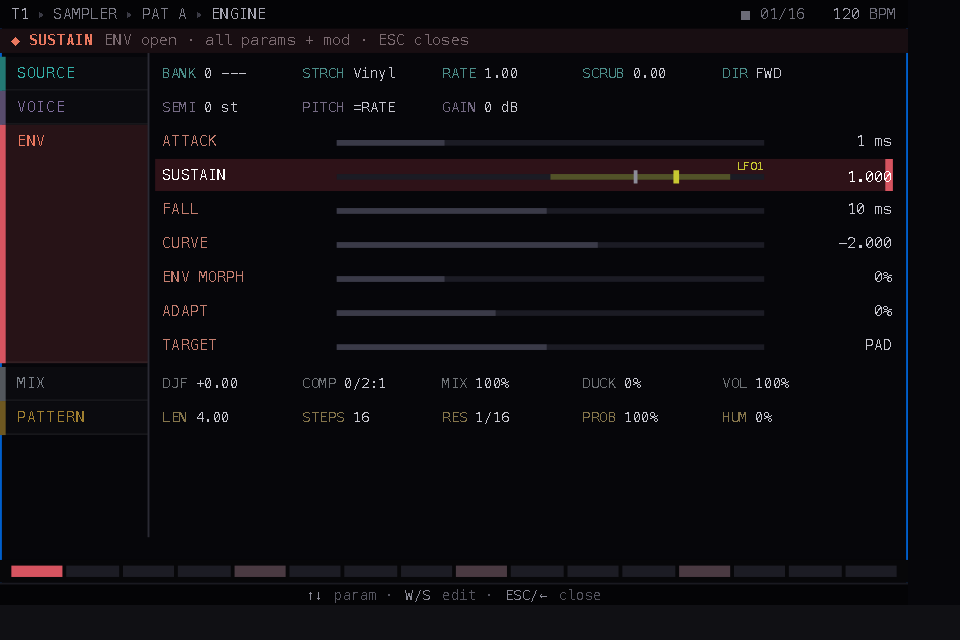
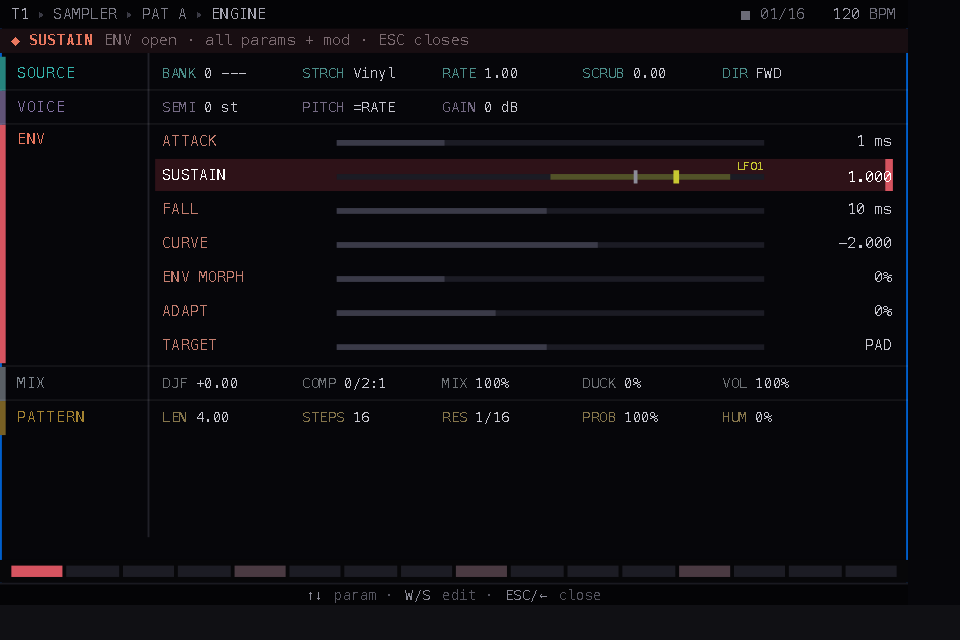
tweak(7): full-width row lines across both panes + category on the param baseline (unify the table)

Changed region(s): [[0.0, 0.1875, 0.1562, 0.5938]]

diff --git a/index.html b/index.html
@@ -609,13 +609,14 @@ function renderInlineViz(){
   const sc=secs();let html=crumb();
   const bodyTop=28, bodyBot=284, catW=78, px=catW+8;
   const cols=[catW+8, catW+82, catW+156, catW+230, catW+304];
-  // a tidy table column: per-section CELL (subtle fill + hairline + role tick + TOP-aligned
-  // name, no floating chip). Focused cell gets a clean role tint + bright name/tick.
-  const catCell=(y,h,c,foc,name)=>
-    `<div style="position:absolute;left:0;top:${y}px;width:${catW}px;height:${h}px;background:${foc?'rgba(214,84,96,.16)':'rgba(255,255,255,.022)'};border-bottom:1px solid rgba(255,255,255,.05)"></div>`
-   +`<div style="position:absolute;left:0;top:${y}px;width:3px;height:${h}px;background:${foc?'var(--rail)':'color-mix(in srgb,'+c+' 55%,#000)'}"></div>`
-   +`<div style="position:absolute;left:9px;top:${y+5}px;font-size:8px;letter-spacing:.4px;color:${foc?c:'color-mix(in srgb,'+c+' 80%,#000)'}">${name}</div>`;
-  const catDiv=(y,h)=>`<div style="position:absolute;left:${catW}px;top:${y}px;width:1px;height:${h}px;background:#2a2a34"></div>`;
+  // One table. The category name is the LEFT cell of each row (role tick + name on the SAME
+  // baseline as its params). No separate column background, so it doesn't read as a detached
+  // sidebar — rows are tied together by full-width horizontal lines crossing the divider (Tim).
+  const catDiv=(y,h)=>`<div style="position:absolute;left:${catW}px;top:${y}px;width:1px;height:${h}px;background:#202028"></div>`;
+  const hLine=(y)=>`<div style="position:absolute;left:0;right:0;top:${y}px;height:1px;background:rgba(255,255,255,.06)"></div>`;
+  const catLbl=(ty,rowY,rowH,c,foc,name)=>
+    `<div style="position:absolute;left:0;top:${rowY}px;width:3px;height:${rowH}px;background:${foc?'var(--rail)':'color-mix(in srgb,'+c+' 60%,#000)'}"></div>`
+   +`<div style="position:absolute;left:9px;top:${ty}px;font-size:8px;letter-spacing:.4px;color:${foc?c:'color-mix(in srgb,'+c+' 82%,#000)'}">${name}</div>`;
 
   if(S.exp>=0){
     // ---- accordion FOLDOUT: focused section -> full param bars + live mod; others thin ----
@@ -625,14 +626,15 @@ function renderInlineViz(){
     let y=bodyTop+2;
     sc.forEach((sec,si)=>{
       const c=rc(sec.id);
+      if(si>0)html+=hLine(y-1);
       if(si===S.exp){
         const bh2=Math.max(13,Math.min(18,(bodyBot-y-(sc.length-1-si)*18-2)/sec.full.length));
         const blockH=sec.full.length*bh2;
-        html+=catCell(y,blockH,c,true,sec.id);
+        html+=catLbl(y+4,y,blockH,c,true,sec.id);
         html+=foldoutBars(sec,c,px,y,480-px-8,blockH,S.field);
         y+=blockH+2;
       } else {
-        html+=catCell(y,18,c,false,sec.id);
+        html+=catLbl(y+5,y,18,c,false,sec.id);
         (sec.inline||sec.full).slice(0,5).forEach((f,fi)=>{
           html+=`<div style="position:absolute;left:${cols[fi]}px;top:${y+5}px;font-size:7.5px;display:flex;gap:4px;white-space:nowrap"><span style="color:color-mix(in srgb,${c} 42%,#555)">${f[0]}</span><span style="color:var(--ink)">${f[1]}</span></div>`;});
         y+=18;
@@ -642,24 +644,26 @@ function renderInlineViz(){
     dev.innerHTML=html;return;
   }
 
-  // ---- collapsed: compact aligned rows (category column | params) + env anchor below ----
+  // ---- collapsed: compact aligned rows (category cell | params) + env anchor below ----
   const fsec=sc[S.sec];const fl0=(fsec.inline||fsec.full);
-  html+=`<div class="subhdr"><span class="nm" style="color:${rc(fsec.id)}">◆ ${fl0[Math.min(S.field,fl0.length-1)][0]}</span><span class="ds">${fsec.id} · category column + params</span></div>`;
+  html+=`<div class="subhdr"><span class="nm" style="color:${rc(fsec.id)}">◆ ${fl0[Math.min(S.field,fl0.length-1)][0]}</span><span class="ds">${fsec.id} · category + params</span></div>`;
   const n=sc.length, rowH=22, rowsTop=bodyTop+2, rowsBot=rowsTop+n*rowH;
+  // focus band first (full width, behind the lines), then divider + full-width lines, then text
+  sc.forEach((sec,si)=>{ if(si===S.sec){const y=rowsTop+si*rowH;
+    html+=`<div style="position:absolute;left:0;right:0;top:${y}px;height:${rowH}px;background:rgba(214,84,96,.13)"></div>`;}});
   html+=catDiv(rowsTop,n*rowH);
+  for(let i=0;i<=n;i++)html+=hLine(rowsTop+i*rowH);   // lines extend across BOTH panes
   sc.forEach((sec,si)=>{
     const c=rc(sec.id),foc=(si===S.sec);const y=rowsTop+si*rowH;const flds=(sec.inline||sec.full);
-    if(foc)html+=`<div style="position:absolute;left:${catW+1}px;right:0;top:${y}px;height:${rowH}px;background:rgba(214,84,96,.12)"></div>`;
-    html+=`<div style="position:absolute;left:${catW+1}px;right:0;top:${y+rowH-1}px;height:1px;background:rgba(255,255,255,.045)"></div>`;
-    html+=catCell(y,rowH,c,foc,sec.id);
+    const ty=y+7;   // category name + params share this baseline
+    html+=catLbl(ty,y,rowH,c,foc,sec.id);
     flds.slice(0,5).forEach((f,fi)=>{const pill=foc&&fi===S.field;
-      html+=`<div style="position:absolute;left:${cols[fi]}px;top:${y+7}px;font-size:8px;display:flex;gap:5px;white-space:nowrap;${pill?'background:var(--pill);padding:0 3px;border-radius:1px':''}">
+      html+=`<div style="position:absolute;left:${cols[fi]}px;top:${ty}px;font-size:8px;display:flex;gap:5px;white-space:nowrap;${pill?'background:var(--pill);padding:0 3px;border-radius:1px':''}">
         <span style="color:${pill?'#04101e':(foc?c:'color-mix(in srgb,'+c+' 48%,#666)')}">${f[0]}</span>
         <span style="color:${pill?'#04101e':(foc?'var(--hi)':'var(--ink)')}">${f[1]}</span></div>`;});
   });
   // env anchor: the one kept visualizer, a full-width AMP ENV filling the space below
   const envTop=rowsBot+10;
-  html+=`<div style="position:absolute;left:0;right:0;top:${rowsBot+3}px;height:1px;background:#23232c"></div>`;
   html+=`<div style="position:absolute;left:10px;top:${envTop}px;font-size:8px;letter-spacing:1px;color:var(--ENV)">AMP ENV</div>`;
   html+=`<div style="position:absolute;left:10px;right:10px;top:${envTop+12}px;height:${bodyBot-(envTop+12)-2}px">${gEnvBig(rc('ENV'),460,bodyBot-(envTop+12)-2)}</div>`;
   html+=miniPat()+foot('<span class="k">↑↓</span> section · <span class="k">↔</span> field · <span class="k">ENT</span> open · <span class="k">W/S</span> edit');